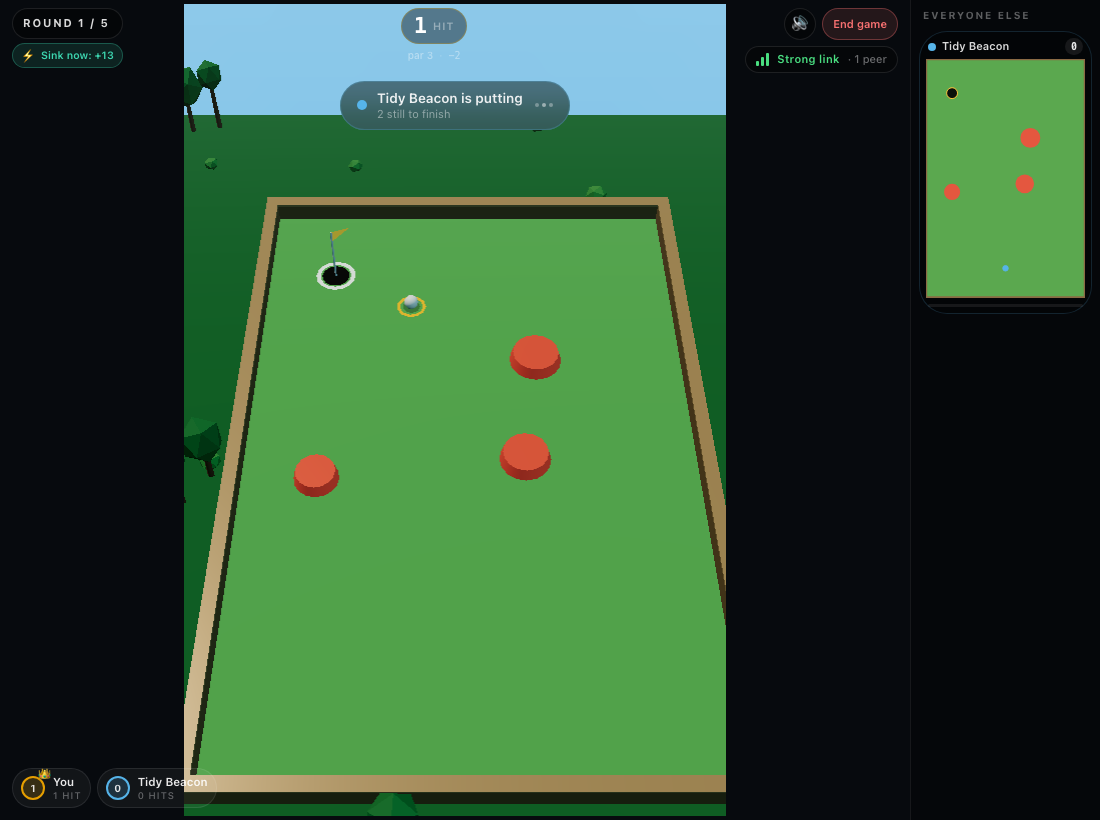
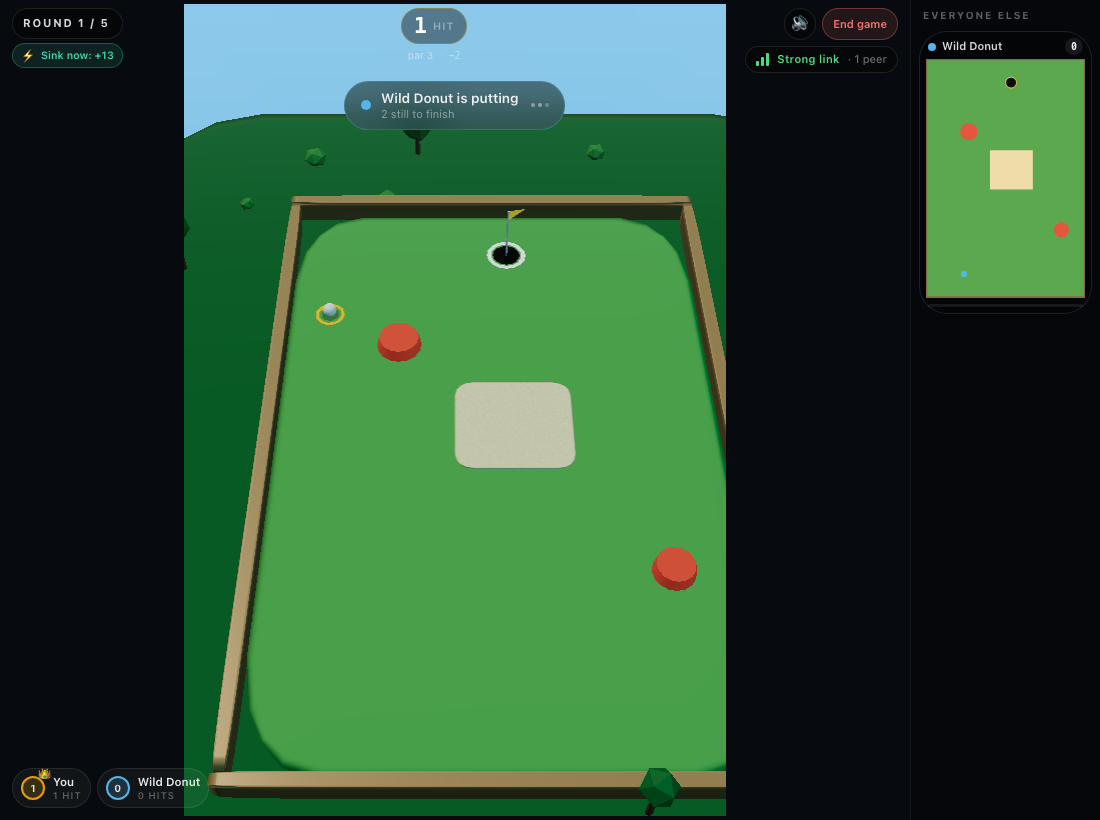
Make the ball actually travel, and make gentle putts possible
The ball would not move. Measured it rather than guessed: friction 1.15 killed a
full-power putt in about two seconds and wall restitution 0.78 took a fifth of
its speed on every rebound, so it thudded into the first rail and stopped
instead of working the walls. Friction is now 0.72, rails 0.88, top speed 145,
and capture speed is up so a livelier ball can still drop rather than skating
over the cup. A straight putt now reaches the hole in ONE strike from about
three-quarter power, and a full-power shot rebounds for five seconds.

Gentle putts were impossible. With the livelier friction the softest LEGAL shot
still carried 6.4 course units while the cup is only 2.2 across, so a ball
sitting beside the hole could never be nudged in. Worse, the power response was
linear, so the entire bottom of the drag range produced big shots. Minimum power
is now 0.015 and the response is quadratic (POWER_TOE), which gives short putts
real resolution while leaving full power exactly where it was. The gentlest shot
now travels 0.7 units.

The reported network error on a short putt was not a network error. Every
session failure was titled Connection trouble, so a refused shot (too gentle,
not your turn) sent people hunting for a connection fault that did not exist.
Rule errors now say Cannot do that yet.

Battle no longer looks stalled after someone wins: the banner explains you are
playing for points, because hit efficiency is earned independently of placement
[…]

diff --git a/src/game/config.ts b/src/game/config.ts
@@ -44,24 +44,44 @@ export interface PhysicsConfig {
   readonly WATER_PENALTY_STROKES: number;
   /** Drags shorter than this fraction of MAX_DRAG_CU cancel the shot instead of firing. */
   readonly MIN_POWER: number;
+  readonly POWER_TOE: number;
 }
 
 export const PHYSICS: PhysicsConfig = {
   DT: 1 / 120,
-  FRICTION: 1.15,
-  WALL_RESTITUTION: 0.78,
+  // Lower friction = the ball keeps rolling. At 1.15 a full-power putt died in
+  // about two seconds and never had a chance to work the walls.
+  FRICTION: 0.72,
+  // Livelier rails. At 0.78 the ball lost a fifth of its speed per bounce, so it
+  // thudded into a wall and stopped instead of coming back at you.
+  WALL_RESTITUTION: 0.88,
   BUMPER_RESTITUTION: 1.15,
   SAND_FRICTION_MULT: 3.6,
   STOP_SPEED: 1.1,
-  CAPTURE_SPEED: 26,
+  // A faster ball would otherwise skate straight over the cup, which would make
+  // the livelier physics feel punishing rather than fun.
+  CAPTURE_SPEED: 34,
   MAX_SIM_SECONDS: 12,
-  MAX_SHOT_SPEED: 120,
+  MAX_SHOT_SPEED: 145,
   MAX_DRAG_CU: 26,
   BALL_RADIUS: 1.1,
   PATH_SAMPLE_EVERY: 2,
   MAX_PATH_SAMPLES: 768,
   WATER_PENALTY_STROKES: 1,
-  MIN_POWER: 0.05,
+  // A gentle tap has to actually be gentle. At 0.05 with the livelier friction
+  // the softest legal shot still carried 6.4 course units, while the cup is only
+  // 2.2 across — so a ball sitting beside the hole could not be nudged in.
+  MIN_POWER: 0.015,
+  /**
+   * How responsive the very bottom of the drag is:
+   *   speed = MAX_SHOT_SPEED * power * (POWER_TOE + (1 - POWER_TOE) * power)
+   *
+   * 1 is the old linear response, where every small pull became a big shot and
+   * a ball beside the cup could not be nudged in. Lower values soften the toe of
+   * the curve, giving short putts real resolution, while full power is untouched
+   * (the curve always passes through 1 at power 1).
+   */
+  POWER_TOE: 0.28,
 };
 
 // ---------------------------------------------------------------------------
@@ -434,8 +454,36 @@ export const DEFAULT_QUALITY_TIER: QualityTier = 'medium';
 /** Round counts offered in the host UI. `null` = endless (co-op default). */
 export const ROUND_OPTIONS: readonly number[] = [3, 5, 10];
 
-/** Slider midpoint: a little damping, still crisp. 0 = rigid, 1 = volatile. */
-export const DEFAULT_BALL_SMOOTHING = 0.32;
+/**
+ * The two ends of the host's "Ball feel" slider, and where it starts.
+ *
+ * The slider hands out a 0..1 position; this maps it onto the damping actually
+ * applied to the rendered ball. Retune the feel here rather than hunting through
+ * the renderer — and note MOST_VOLATILE is deliberately below 1, because full
+ * damping makes the ball visibly lag its own shadow.
+ */
+export const BALL_FEEL = {
+  MOST_RIGID: 0,
+  MOST_VOLATILE: 0.72,
+  DEFAULT: 0.32,
+} as const;
+
+/** Maps a 0..1 slider position onto the damping the renderer uses. */
+export function ballFeelFromSlider(position: number): number {
+  const p = Math.max(0, Math.min(1, Number.isFinite(position) ? position : 0.5));
+  return BALL_FEEL.MOST_RIGID + (BALL_FEEL.MOST_VOLATILE - BALL_FEEL.MOST_RIGID) * p;
+}
+
+/** The inverse, so the slider can show where the current value sits. */
+export function sliderFromBallFeel(value: number): number {
+  const span = BALL_FEEL.MOST_VOLATILE - BALL_FEEL.MOST_RIGID;
+  if (span <= 0) return 0;
+  const v = Number.isFinite(value) ? value : BALL_FEEL.DEFAULT;
+  return Math.max(0, Math.min(1, (v - BALL_FEEL.MOST_RIGID) / span));
+}
+
+/** Kept for call sites that just want the starting value. */
+export const DEFAULT_BALL_SMOOTHING = BALL_FEEL.DEFAULT;
 
 export const DEFAULT_SETTINGS: GameSettings = {
   totalRounds: null,

diff --git a/src/game/physics/travel.test.ts b/src/game/physics/travel.test.ts
@@ -1,0 +1,64 @@
+/**
+ * Shot feel. These lock in two things that were reported as broken:
+ *   1. a ball beside the cup must be nudgeable — the gentlest legal shot has to
+ *      travel less than the cup is wide, or close putts are impossible;
+ *   2. a strong straight putt has to be able to reach the hole in ONE strike.
+ */
+import { describe, expect, it } from 'vitest';
+import { simulateShot, shotSpeedFor } from './simulate';
+import { generateLevel } from '@/game/levels/generator';
+import { LEVEL, PHYSICS } from '@/game/config';
+
+const level = generateLevel(20260920, 0, 0);
+const from = level.ballStart;
+
+function carry(power: number, aim = { x: 0, y: -1 }): number {
+  const r = simulateShot(level, from, aim, power);
+  return Math.sqrt((r.restPos.x - from.x) ** 2 + (r.restPos.y - from.y) ** 2);
+}
+
+describe('shot feel', () => {
+  it('lets the gentlest legal shot nudge a ball that is beside the cup', () => {
+    // Anything longer than the cup and a ball sitting next to it can never be
+    // tapped in — you overshoot every time, which is exactly what was reported.
+    expect(carry(PHYSICS.MIN_POWER)).toBeLessThan(LEVEL.HOLE_RADIUS * 2);
+  });
+
+  it('gives short putts real resolution instead of one big jump', () => {
+    const tap = carry(0.08);
+    const nudge = carry(0.16);
+    const firm = carry(0.3);
+    expect(tap).toBeLessThan(nudge);
+    expect(nudge).toBeLessThan(firm);
+    // The bottom of the range must stay genuinely short.
+    expect(tap).toBeLessThan(6);
+  });
+
+  it('can reach the hole in one strike with a strong straight putt', () => {
+    const toHole = Math.sqrt(
+      (level.hole.center.x - from.x) ** 2 + (level.hole.center.y - from.y) ** 2,
+    );
+    let holedInOne = false;
+    for (let p = 0.5; p <= 1 && !holedInOne; p += 0.05) {
+      const aim = {
+        x: (level.hole.center.x - from.x) / toHole,
+        y: (level.hole.center.y - from.y) / toHole,
+      };
+      holedInOne = simulateShot(level, from, aim, p).holed;
+    }
+    expect(holedInOne).toBe(true);
+  });
+
+  it('keeps the ball alive long enough to work the walls', () => {
+    // A full-power shot used to die in about two seconds; it should now carry on
+    // rebounding rather than thudding into the first rail and stopping.
+    const r = simulateShot(level, from, { x: 0.8, y: -0.6 }, 1);
+    expect(r.durationMs).toBeGreaterThan(2500);
+  });
+
+  it('never exceeds full power however hard you pull', () => {
+    expect(shotSpeedFor(5)).toBe(PHYSICS.MAX_SHOT_SPEED);
+    expect(shotSpeedFor(1)).toBe(PHYSICS.MAX_SHOT_SPEED);
+    expect(shotSpeedFor(0)).toBe(0);
+  });
+});

diff --git a/src/components/game/Scoreboard.tsx b/src/components/game/Scoreboard.tsx
@@ -23,6 +23,7 @@ import { motion, useReducedMotion } from 'framer-motion';
 import { withAlpha } from '@/game/rendering/palette';
 import type { FinalStanding, GameMode, Hex, PlayerId, PlayerState } from '@/types';
 import { cn } from '@/utils/cn';
+import { formatDuration } from '@/utils/format';
 
 const MEDALS: readonly string[] = ['\u{1F947}', '\u{1F948}', '\u{1F949}'];
 
@@ -66,6 +67,16 @@ export function Scoreboard({
   const competitive = mode === 'battle';
   const anyWins = standings.some((row) => row.roundWins > 0);
   const withWins = competitive && showRoundWins && anyWins;
+  /**
+   * Time only earns a column when it actually mattered — i.e. two players are
+   * level on hits, so the tiebreak had to be consulted. Showing it otherwise
+   * implies the game was decided on something it was not.
+   */
+  const withTime =
+    competitive &&
+    standings.some((row, i) =>
+      standings.some((other, j) => j !== i && other.totalStrokes === row.totalStrokes),
+    );
 
   return (
     <section
@@ -100,6 +111,11 @@ export function Scoreboard({
             <th scope="col" className="w-14 pb-1.5 text-right">
               {competitive ? 'Hits' : 'Steps'}
             </th>
+            {withTime ? (
+              <th scope="col" className="w-16 pb-1.5 text-right">
+                Time
+              </th>
+            ) : null}
             {competitive ? (
               <th scope="col" className="w-14 pb-1.5 text-right">
                 Points
@@ -177,6 +193,14 @@ export function Scoreboard({
                     {row.totalStrokes}
                   </span>
                 </td>
+
+                {withTime ? (
+                  <td className="py-1.5 text-right align-middle">
+                    <span className="font-mono text-[12px] tabular-nums text-white/40">
+                      {row.totalThinkTimeMs > 0 ? formatDuration(row.totalThinkTimeMs) : '—'}
+                    </span>
+                  </td>
+                ) : null}
 
                 {competitive ? (
                   <td className="py-1.5 text-right align-middle">

diff --git a/src/game/rules/scoring.ts b/src/game/rules/scoring.ts
@@ -374,6 +374,17 @@ export interface FinalStandingsOptions {
   readonly endedAt?: Timestamp;
 }
 
+/** Summed think time per player across every round in `history`. */
+function totalThinkTimeFrom(history: readonly RoundSummary[]): ReadonlyMap<PlayerId, number> {
+  const out = new Map<PlayerId, number>();
+  for (const summary of history) {
+    for (const result of summary.results) {
+      out.set(result.playerId, (out.get(result.playerId) ?? 0) + Math.max(0, result.thinkTimeMs));
+    }
+  }
+  return out;
+}
+
 function totalStrokesFrom(history: readonly RoundSummary[]): ReadonlyMap<PlayerId, number> {
   const totals = new Map<PlayerId, number>();
   for (const summary of history) {
@@ -396,6 +407,7 @@ export function finalStandings(
 ): GameResults {
   const history = options.history ?? [];
   const strokeTotals = totalStrokesFrom(history);
+  const thinkTotals = totalThinkTimeFrom(history);
   const players = playersInJoinOrder(state);
 
   const rows = players.map((player) => ({
@@ -404,6 +416,7 @@ export function finalStandings(
     totalScore: player.totalScore,
     totalStrokes: strokeTotals.get(player.id) ?? Math.max(0, player.strokes),
     roundWins: player.roundWins,
+    totalThinkTimeMs: thinkTotals.get(player.id) ?? Math.max(0, player.thinkTimeMs),
     joinSeq: player.joinSeq,
   }));
 
@@ -415,6 +428,7 @@ export function finalStandings(
       totalScore: row.totalScore,
       totalStrokes: row.totalStrokes,
       roundWins: row.roundWins,
+      totalThinkTimeMs: row.totalThinkTimeMs,
       rank: 0,
     }));
   } else {
@@ -444,6 +458,7 @@ export function finalStandings(
         displayName: row.displayName,
         totalScore: row.totalScore,
         totalStrokes: row.totalStrokes,
+        totalThinkTimeMs: row.totalThinkTimeMs,
         roundWins: row.roundWins,
         rank: currentRank,
       });

diff --git a/src/components/game/TurnBanner.tsx b/src/components/game/TurnBanner.tsx
@@ -36,6 +36,13 @@ export interface TurnBannerProps {
   readonly stillPutting?: number;
   /** Strokes the local player has taken this round. Drives the first-shot hint. */
   readonly selfStrokes?: number;
+  /**
+   * Battle only: who already holed out ahead of you this round, if anyone.
+   * You keep playing for hit-efficiency points, which are earned independently
+   * of placement and decide the game across rounds — so the banner says so
+   * rather than leaving you wondering why the round has not ended.
+   */
+  readonly alreadyFinishedBy?: string | null;
   /** A shot is animating — the banner steps back so it does not chatter. */
   readonly busy?: boolean;
   /** The round has finished but the summary is not up yet. */
@@ -67,6 +74,7 @@ export function turnBannerModel(props: TurnBannerProps): TurnBannerModel {
     selfDnf = false,
     stillPutting = 0,
     selfStrokes = 0,
+    alreadyFinishedBy = null,
     busy = false,
     roundOver = false,
     selfColor,
@@ -117,6 +125,16 @@ export function turnBannerModel(props: TurnBannerProps): TurnBannerModel {
     }
 
     if (isMyTurn) {
+      if (alreadyFinishedBy !== null) {
+        return {
+          key: 'battle-for-points',
+          title: 'Playing for points',
+          detail: `${alreadyFinishedBy} took the round — every hit you save still scores`,
+          accent: selfColor,
+          pulse: true,
+          emphatic: true,
+        };
+      }
       return {
         key: 'battle-your-shot',
         title: selfStrokes === 0 ? 'Take your shot' : 'Your shot',

diff --git a/src/components/lobby/Lobby.tsx b/src/components/lobby/Lobby.tsx
@@ -31,6 +31,7 @@ import { ConnectionBanner } from './ConnectionBanner';
 import { PlayerRoster } from './PlayerRoster';
 import { RoomCodeCard } from './RoomCodeCard';
 import { RoundsSelector } from './RoundsSelector';
+import { ballFeelFromSlider, sliderFromBallFeel } from '@/game/config';
 
 export interface LobbyProps {
   readonly roomCode: RoomCode;
@@ -98,8 +99,8 @@ function SmoothnessSlider({
         min={0}
         max={100}
         step={1}
-        value={Math.round(Math.max(0, Math.min(1, value)) * 100)}
-        onChange={(event) => onChange(Number(event.target.value) / 100)}
+        value={Math.round(sliderFromBallFeel(value) * 100)}
+        onChange={(event) => onChange(ballFeelFromSlider(Number(event.target.value) / 100))}
         className="h-2 w-full cursor-pointer appearance-none rounded-full bg-white/10 accent-[#4FD1C5]"
         aria-describedby="fg-smoothness-help"
       />

diff --git a/src/app/room/page.tsx b/src/app/room/page.tsx
@@ -95,7 +95,15 @@ function RoomRoute(): React.JSX.Element {
     const error = session.error;
     if (error === null || error === lastError.current) return;
     lastError.current = error;
-    toast.push({ title: 'Connection trouble', description: error, tone: 'bad' });
+    // Not every session error is a network problem. A refused shot ("not your
+    // turn", "too gentle") was being reported as "Connection trouble", which
+    // sent people hunting for a connection fault that did not exist.
+    const networky = /connect|signal|relay|peer|network|timeout|offline/i.test(error);
+    toast.push({
+      title: networky ? 'Connection trouble' : 'Cannot do that yet',
+      description: error,
+      tone: 'bad',
+    });
   }, [session.error, toast]);
 
   // A refresh (or a reopened link) rejoins silently when this browser already

diff --git a/src/app/page.tsx b/src/app/page.tsx
@@ -83,7 +83,15 @@ export default function HomePage(): React.JSX.Element {
     const error = session.error;
     if (error === null || error === lastError.current) return;
     lastError.current = error;
-    toast.push({ title: 'Connection trouble', description: error, tone: 'bad' });
+    // Not every session error is a network problem. A refused shot ("not your
+    // turn", "too gentle") was being reported as "Connection trouble", which
+    // sent people hunting for a connection fault that did not exist.
+    const networky = /connect|signal|relay|peer|network|timeout|offline/i.test(error);
+    toast.push({
+      title: networky ? 'Connection trouble' : 'Cannot do that yet',
+      description: error,
+      tone: 'bad',
+    });
   }, [session.error, toast]);
 
   const busy = creating !== null || joining;

diff --git a/src/components/game/RoundSummary.tsx b/src/components/game/RoundSummary.tsx
@@ -550,9 +550,9 @@ function BattleSummaryView(props: RoundSummaryProps): React.JSX.Element {
                   {columns.time ? (
                     <span
                       className="rounded-md bg-white/[0.04] px-1.5 py-[2px] font-mono text-[10px] tabular-nums text-white/40"
-                      title="Time spent on your own turns — only consulted when hits are level"
+                      title="Time you spent on your own turns — only consulted when hits are level"
                     >
-                      {result.thinkTimeMs > 0 ? formatDuration(result.thinkTimeMs) : '—'} thinking
+                      {result.thinkTimeMs > 0 ? formatDuration(result.thinkTimeMs) : '—'} time
                     </span>
                   ) : null}
                   {columns.penalties ? (

diff --git a/src/game/physics/simulate.test.ts b/src/game/physics/simulate.test.ts
@@ -101,8 +101,11 @@ describe('simulation safety', () => {
   });
 
   it('bounds the trajectory sample count so long shots cannot bloat memory', () => {
+    // The invariant is "bounded by the configured cap", not a magic number:
+    // lowering friction made shots roll for longer, which legitimately produces
+    // more samples. The downsampler is what must hold the line.
     const r = simulateShot(level, level.ballStart, aimAt(3, 96), 1);
-    expect(r.path.length).toBeLessThanOrEqual(256);
+    expect(r.path.length).toBeLessThanOrEqual(PHYSICS.MAX_PATH_SAMPLES);
   });
 
   it('treats zero power as a no-op rather than a lost turn', () => {

diff --git a/src/game/physics/simulate.ts b/src/game/physics/simulate.ts
@@ -89,7 +89,12 @@ function clamp01(value: number): number {
 
 /** Speed (cu/s) for a 0..1 power. */
 export function shotSpeedFor(power: number): number {
-  return clamp01(power) * PHYSICS.MAX_SHOT_SPEED;
+  // Non-linear so short putts get real resolution. Uses only multiplication, so
+  // it stays bit-identical across engines (Math.pow with a non-integer exponent
+  // is NOT guaranteed identical, and would desync peers).
+  const p = clamp01(power);
+  const curved = p * (PHYSICS.POWER_TOE + (1 - PHYSICS.POWER_TOE) * p);
+  return curved * PHYSICS.MAX_SHOT_SPEED;
 }
 
 /** Slingshot power from a drag length in course units. */

diff --git a/src/components/game/GameScreen.tsx b/src/components/game/GameScreen.tsx
@@ -667,6 +667,11 @@ export function GameScreen({ toCourse: toCourseProp, className }: GameScreenProp
               selfDnf={!self.holed && self.strokes >= maxStrokes}
               stillPutting={stillPutting}
               selfStrokes={self.strokes}
+              alreadyFinishedBy={
+                mode === 'battle' && !self.holed
+                  ? (players.find((p) => p.holed && p.id !== selfId)?.displayName ?? null)
+                  : null
+              }
               busy={busy}
               roundOver={game.roundState?.completed ?? false}
               selfColor={self.color}
